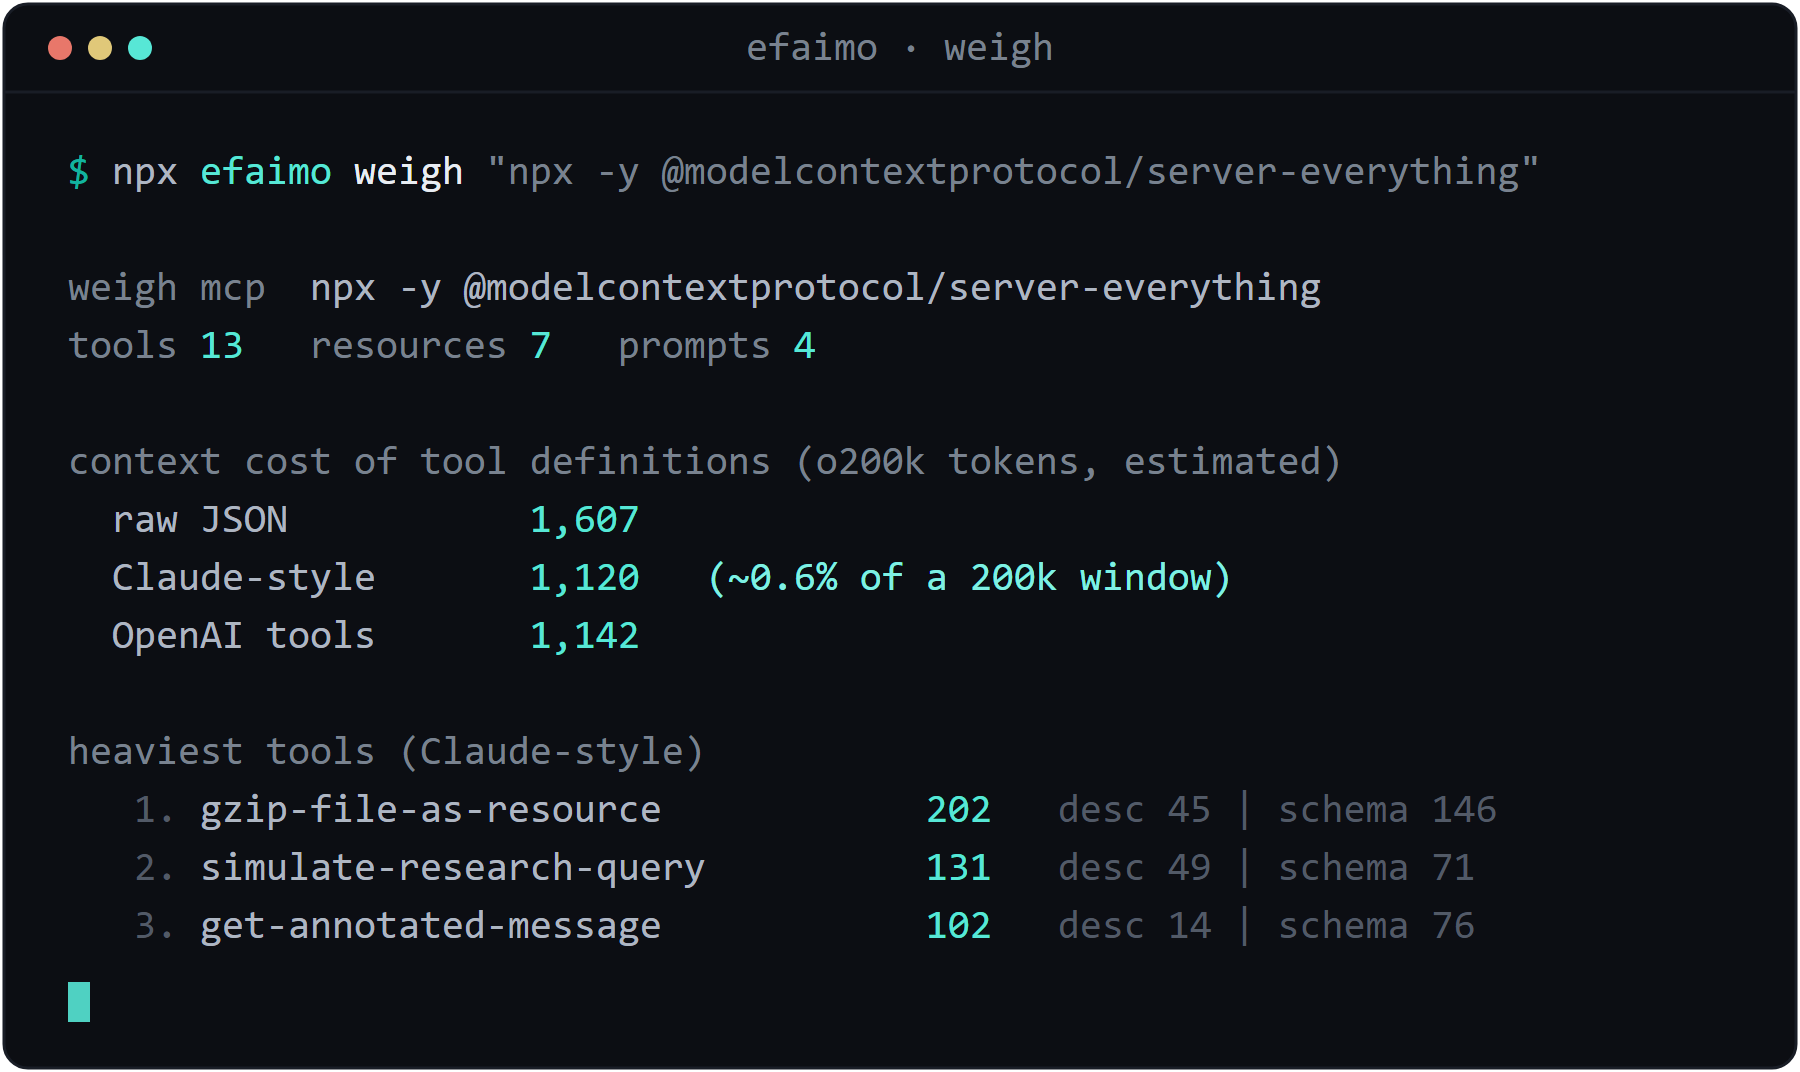
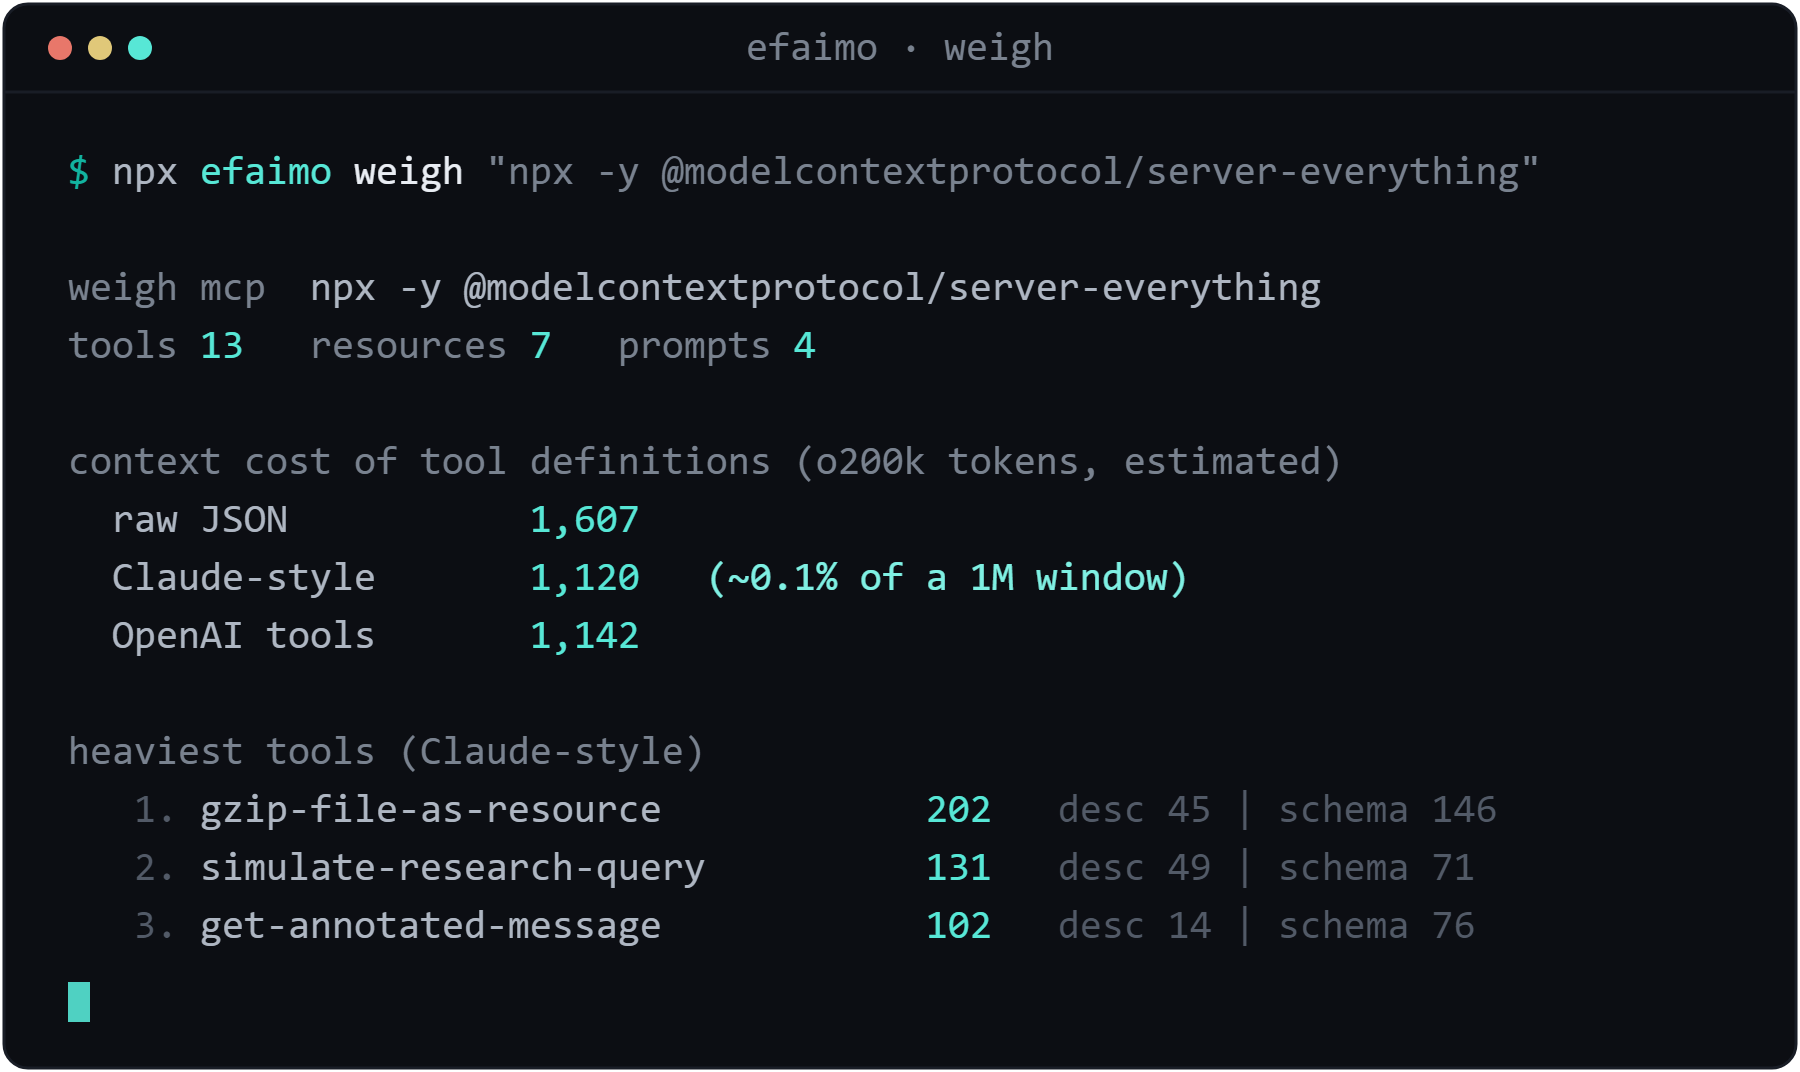
Recapture the two README images that still showed the retired 200k window
demo.png and architecture.png are the first and second things a reader sees on
the front page, and both still read "~0.6% of a 200k window". ADR-021 moved the
denominator to 1M; check.svg/check.png were recaptured on 07-18 and these two
were missed, so the README's own screenshot has been contradicting
docs/METHODOLOGY.md three sections later, overstating the headline share by 5x.
Verified against a live run first: 1,120 is ~0.1% of 1M, and every other figure
in the capture (13 tools, 1,607 raw, 1,142 OpenAI, the three heaviest with
their desc/schema splits) still matches exactly, so only the window line moved.

Re-rendered from the SVGs at the same 2x the originals used. The first render
came out 3600x2144 for a 900x536 source, because deviceScaleFactor 2 and
clip.scale 2 multiply; comparing against the dimensions of the file being
replaced is what caught it.

Docs that documented the unreleased build as if it were the installed one:
- README pointed CI at --strict-readiness in two places and METHODOLOGY.md
  hands out a copy-pasteable `weigh ... --window 200000`. Neither flag exists
  in efaimo@0.1.0; I unpacked the tarball to confirm. Both now say so inline.
  This is the trap show-hn.md warns about in a blockquote, committed on the
  page HN readers actually land on.
- check.ts still called readiness-in-the-grade "ADR-014's open decision".
  ADR-027 closed it on 2026-08-01. cli.ts was updated in that commit and the
  file that implements the split was not.
[…]

diff --git a/test/meta.test.ts b/test/meta.test.ts
@@ -20,6 +20,20 @@ describe("meta", () => {
     expect(VERSION).toBe(pkg.version);
   });
 
+  // The third version string in the repo, and the only one nothing watched.
+  // SKILL.md ships in package.json's files list and is what `npx skills add
+  // efaimo-ai/efaimo` installs, so a stale number here is a version an agent
+  // reads and reports to a user. Given how this project actually fails - a
+  // hand-maintained number quietly going stale next to a derived one - an
+  // unpinned duplicate is a scheduled bug, not a hypothetical.
+  it("SKILL.md frontmatter version matches package.json", () => {
+    const pkg = JSON.parse(fs.readFileSync(path.join(root, "package.json"), "utf8")) as { version: string };
+    const skill = fs.readFileSync(path.join(root, "SKILL.md"), "utf8");
+    const m = skill.match(/^\s{2}version:\s*"([^"]+)"/m);
+    expect(m, "no `  version: \"x.y.z\"` line under metadata in SKILL.md").not.toBeNull();
+    expect(m![1]).toBe(pkg.version);
+  });
+
   it("rule ids are unique", () => {
     const ids = [...MCP_RULES, ...SKILL_RULES].map((r) => r.id);
     expect(new Set(ids).size).toBe(ids.length);

diff --git a/src/check/check.ts b/src/check/check.ts
@@ -23,8 +23,10 @@ import { VERSION } from "../version.js";
 function buildReport(surface: Surface, target: string, findings: Finding[], notes: string[]): CheckReport {
   // MCP readiness findings (E101-E118) are a migration diff for the 2026-07-28
   // spec: a migration not yet made is a to-do list, not a defect in what
-  // shipped. Reported separately and never graded. (The spec published on
-  // 2026-07-28; whether readiness starts counting is ADR-014's open decision.)
+  // shipped. Reported separately and never graded (ADR-014, reaffirmed in
+  // ADR-027). That decision is CLOSED: the spec published on 2026-07-28 and
+  // readiness still does not count toward a grade. This comment described it
+  // as open for a day after ADR-027, in the file that implements the split.
   const readinessAll: Finding[] = [];
   const gradedAll: Finding[] = [];
   for (const f of findings) {

diff --git a/README.md b/README.md
@@ -134,7 +134,8 @@ how to fix it, each rule naming the SEP it came from. Readiness never drags the
 grade, because the two answer different questions: the grade is what a model
 experiences from this tool surface, readiness is whether a 2026-07-28 client can
 talk to this server. Combining them scored the reference server a C for a tool
-surface that is an A. Pass `--strict-readiness` when you want CI to fail on the
+surface that is an A. Pass `--strict-readiness` (**unreleased: on `main`, not
+in `efaimo@0.1.0`**) when you want CI to fail on the
 diff. Full list: [docs/RULES.md](./docs/RULES.md).
 
 <p align="center">
@@ -289,7 +290,8 @@ More recipes (pre-commit, GitLab, editor audit, programmatic use):
 
 Quality (E12x-E13x) and skill (S) findings set the letter grade; readiness
 findings (E101-E118) are reported as an ungraded migration diff, which
-`--strict-readiness` can turn into a non-zero exit without touching the grade.
+`--strict-readiness` (unreleased; on `main`) can turn into a non-zero exit
+without touching the grade.
 Every finding carries a stable id you can suppress or link. See
 [docs/RULES.md](./docs/RULES.md).
 

diff --git a/docs/METHODOLOGY.md b/docs/METHODOLOGY.md
@@ -60,7 +60,7 @@ the share.
 
 Because the denominator is an assumption rather than a measurement, efaimo
 always names it in the output ("~4.3% of a 1M window") and lets you set your
-own with `--window`:
+own with `--window` (**unreleased: on `main`, not in `efaimo@0.1.0`**; 0.1.0 hardcodes 200k and prints `of a 200k window`):
 
 ```bash
 npx efaimo weigh "npx -y my-server" --window 200000
